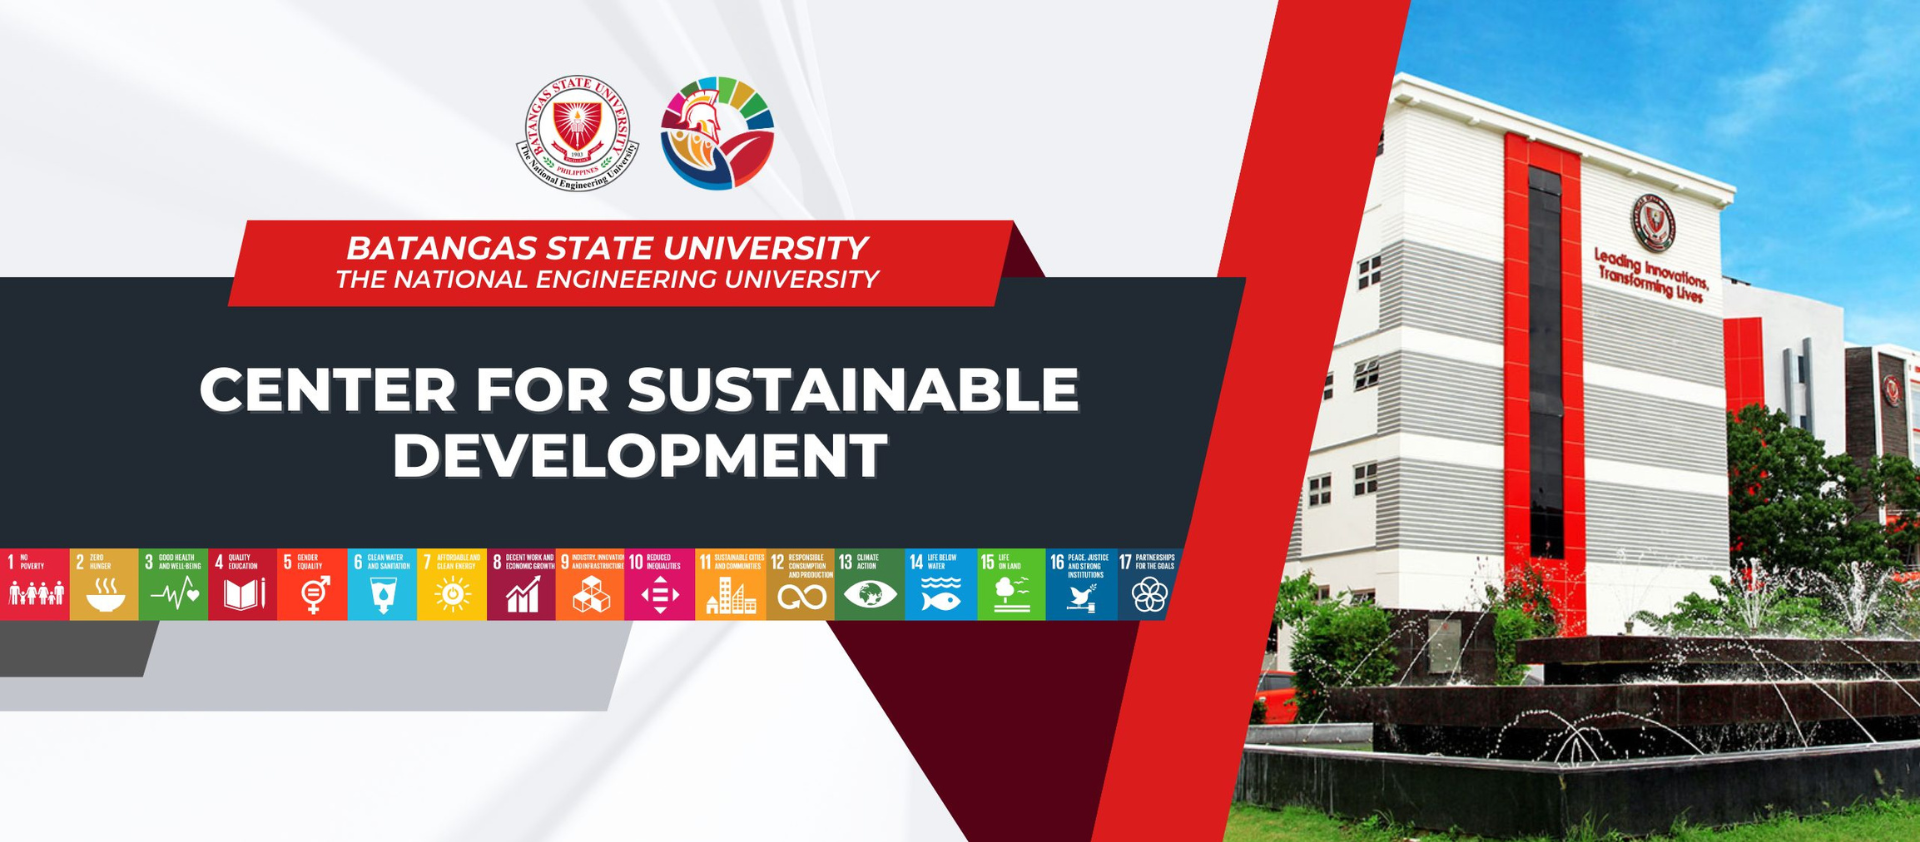
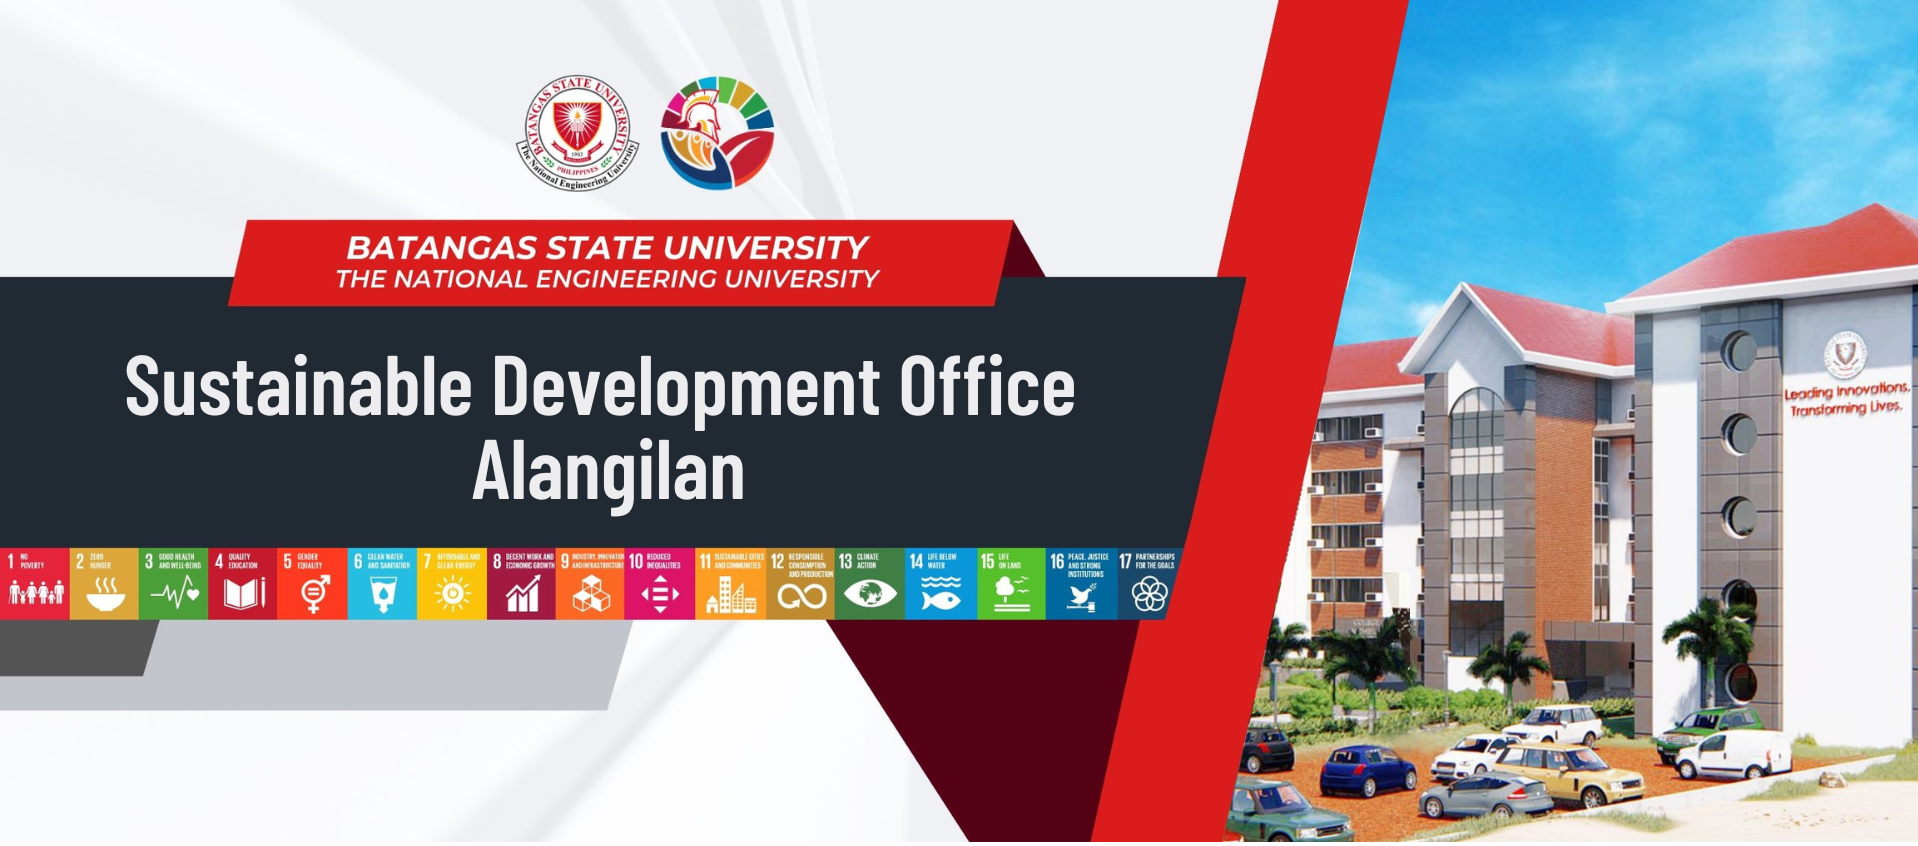
CSD to SDO
Changing all CSD to SDO

diff --git a/Homepage/index.html b/Homepage/index.html
@@ -5,7 +5,7 @@
   <meta charset="utf-8">
   <meta content="width=device-width, initial-scale=1.0" name="viewport">
 
-  <title>Homepage | Center for Sustainable Development</title>
+  <title>Homepage | Sustainable Development Office - Alangilan</title>
   <meta content="" name="description">
   <meta content="" name="keywords">
 
@@ -38,7 +38,7 @@
     <div class="container d-flex align-items-center justify-content-between">
 
       <div class="logo">
-        <h1><a href="index.html"><img src="assets/img/Mini-logo.png" alt="" class="img-fluid">Center for Sustainable Development</a></h1>
+        <h1><a href="index.html"><img src="assets/img/Mini-logo.png" alt="" class="img-fluid">Sustainable Development Office - Alangilan</a></h1>
       </div>
 
       <nav id="navbar" class="navbar">
@@ -392,7 +392,7 @@
       <div class="container">
 
         <div class="row" data-aos="zoom-out">
-          <img src="assets/img/sdgs-logos-banner_orig.jpg" alt="">
+          <img src="assets/img/sdgs-logos-banner_orig.png" alt="">
         </div>
 
       </div>
@@ -579,7 +579,7 @@
           <p>Frequently Asked Questions</p>
         </div>
 
-        <ul class="faq-list">
+        <ul class="faq-list" data-aos="fade-up">
 
           <li>
             <div data-bs-toggle="collapse" class="collapsed question" href="#faq1">What are the Sustainable Development Goals (SDGs)?<i class="bi bi-chevron-down icon-show"></i><i class="bi bi-chevron-up icon-close"></i></div>
@@ -922,10 +922,10 @@
           <div class="col" data-aos="fade-right">
             <div class="info">
               <div class="address">
-                <a href="https://goo.gl/maps/Vz3ssyPDixC7eMmY6" target="_blank">
+                <a href="https://goo.gl/maps/57BjFAzb9QbEcaBg9" target="_blank">
                 <i class="bi bi-geo-alt"></i>
                 <h4>Location:</h4>
-                <p>Rizal Ave, Extension, Batangas, 4200 Batangas</p>
+                <p>Batangas State University - Alangilan, Golden Country Homes, Alangilan, Batangas</p>
                 </a>
               </div>
 
@@ -933,7 +933,7 @@
                 <a href="https://mail.google.com/mail/u/0/?fs=2&to=csd@g.batstate-u.edu.ph&tf=cm" target="_blank" rel="noopener noreferrer"><i class="bi bi-envelope"></i></a>
                 
                 <h4>Email:</h4>
-                <p>csd@g.batstate-u.edu.ph</p>
+                <p>sdo.alangilan@g.batstate-u.edu.ph</p>
               </div>
 
               <div class="phone">
@@ -956,13 +956,13 @@
   <!-- ======= Footer ======= -->
   <footer id="footer">
     <div class="container">
-      <h3>Center for Sustainable Development</h3>
+      <h3>Sustainable Development Office - Alangilan</h3>
       <p>"Building a better future for all, one sustainable step at a time."</p>
       <div class="social-links">
         <a href="https://www.facebook.com/profile.php?id=100088440582840" target="_blank" class="facebook"><i class="bx bxl-facebook"></i></a>
       </div>
       <div class="copyright">
-        &copy; Copyright <strong><span>Center for Sustainable Development</span></strong>. All Rights Reserved
+        &copy; Copyright <strong><span>Sustainable Development Office - Alangilan</span></strong>. All Rights Reserved
       </div>
       <div class="credits">
         Designed by <a href="/Homepage/about-us.html">Sustainable Development Office - Alangilan</a>

diff --git a/Homepage/about-us.html b/Homepage/about-us.html
@@ -5,7 +5,7 @@
   <meta charset="utf-8">
   <meta content="width=device-width, initial-scale=1.0" name="viewport">
 
-  <title>Development Team | Center for Sustainable Development</title>
+  <title>Development Team | Sustainable Development Office - Alangilan</title>
   <meta content="" name="description">
   <meta content="" name="keywords">
 
@@ -38,7 +38,7 @@
     <div class="container d-flex align-items-center justify-content-between">
 
       <div class="logo">
-        <h1><a href="index.html"><img src="assets/img/Mini-logo.png" alt="" class="img-fluid">Center for Sustainable Development</a></h1>
+        <h1><a href="index.html"><img src="assets/img/Mini-logo.png" alt="" class="img-fluid">Sustainable Development Office - Alangilan</a></h1>
       </div>
 
       <nav id="navbar" class="navbar">
@@ -92,7 +92,7 @@
                 <img src="assets/img/design-team/jay.jpg" class="img-fluid" alt="">
               </div>
               <div class="member-info">
-                <h4>Jay Lansang</h4>
+                <h4>Joseph Daniel Lansang</h4>
                 <span>Senior Developer</span>
               </div>
             </div>
@@ -104,7 +104,7 @@
                 <img src="assets/img/design-team/robert.jpg" class="img-fluid" alt="">
               </div>
               <div class="member-info">
-                <h4>Lee Robert</h4>
+                <h4>Lee Robert Velasquez</h4>
                 <span>Senior Developer</span>
               </div>
             </div>

diff --git a/Login/login_page.html b/Login/login_page.html
@@ -15,7 +15,7 @@
     <!-- Style -->
     <link rel="stylesheet" href="css/style.css">
 
-    <title>Dashboard Login | Center for Sustainable Development</title>
+    <title>Dashboard Login | Sustainable Development Office - Alangilan</title>
   </head>
 
   <body>
@@ -25,7 +25,7 @@
       <div class="container d-flex align-items-center justify-content-between">
 
         <div class="logo">
-          <h1><a href="/Homepage/index.html"><img src="images/CSD8-04.png" alt="" class="img-fluid">Center for Sustainable Development</a></h1>
+          <h1><a href="/Homepage/index.html"><img src="images/CSD8-04.png" alt="" class="img-fluid">Sustainable Development Office - Alangilan</a></h1>
         </div>
 
         <nav id="navbar" class="navbar">
@@ -45,7 +45,7 @@
               <div class="col-md-7">
                 <div class="mb-4">
                   <h3>Sign In</h3>
-                  <p class="mb-4">Center for Sustainable Development</p>
+                  <p class="mb-4">Sustainable Development Office - Alangilan</p>
                 </div>
                 <form action="#" method="post">
                   <div class="form-group first">
